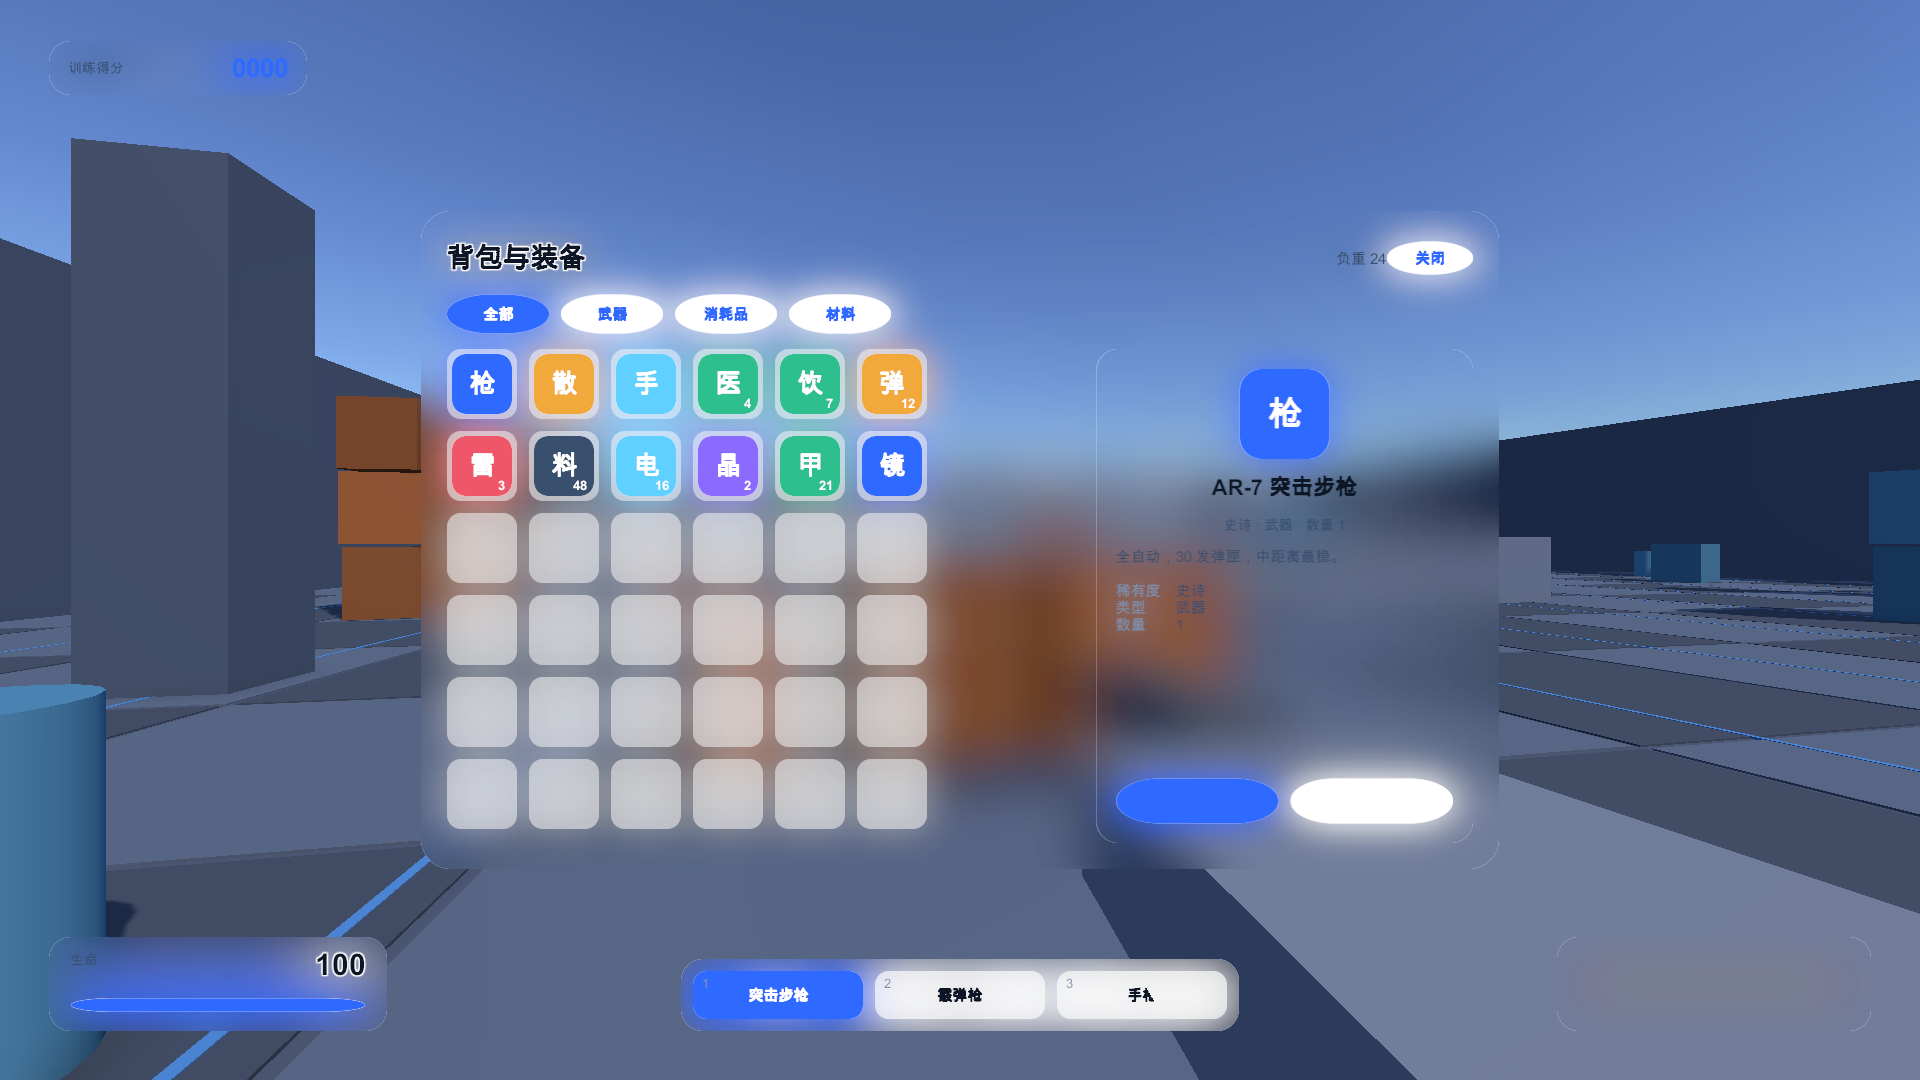
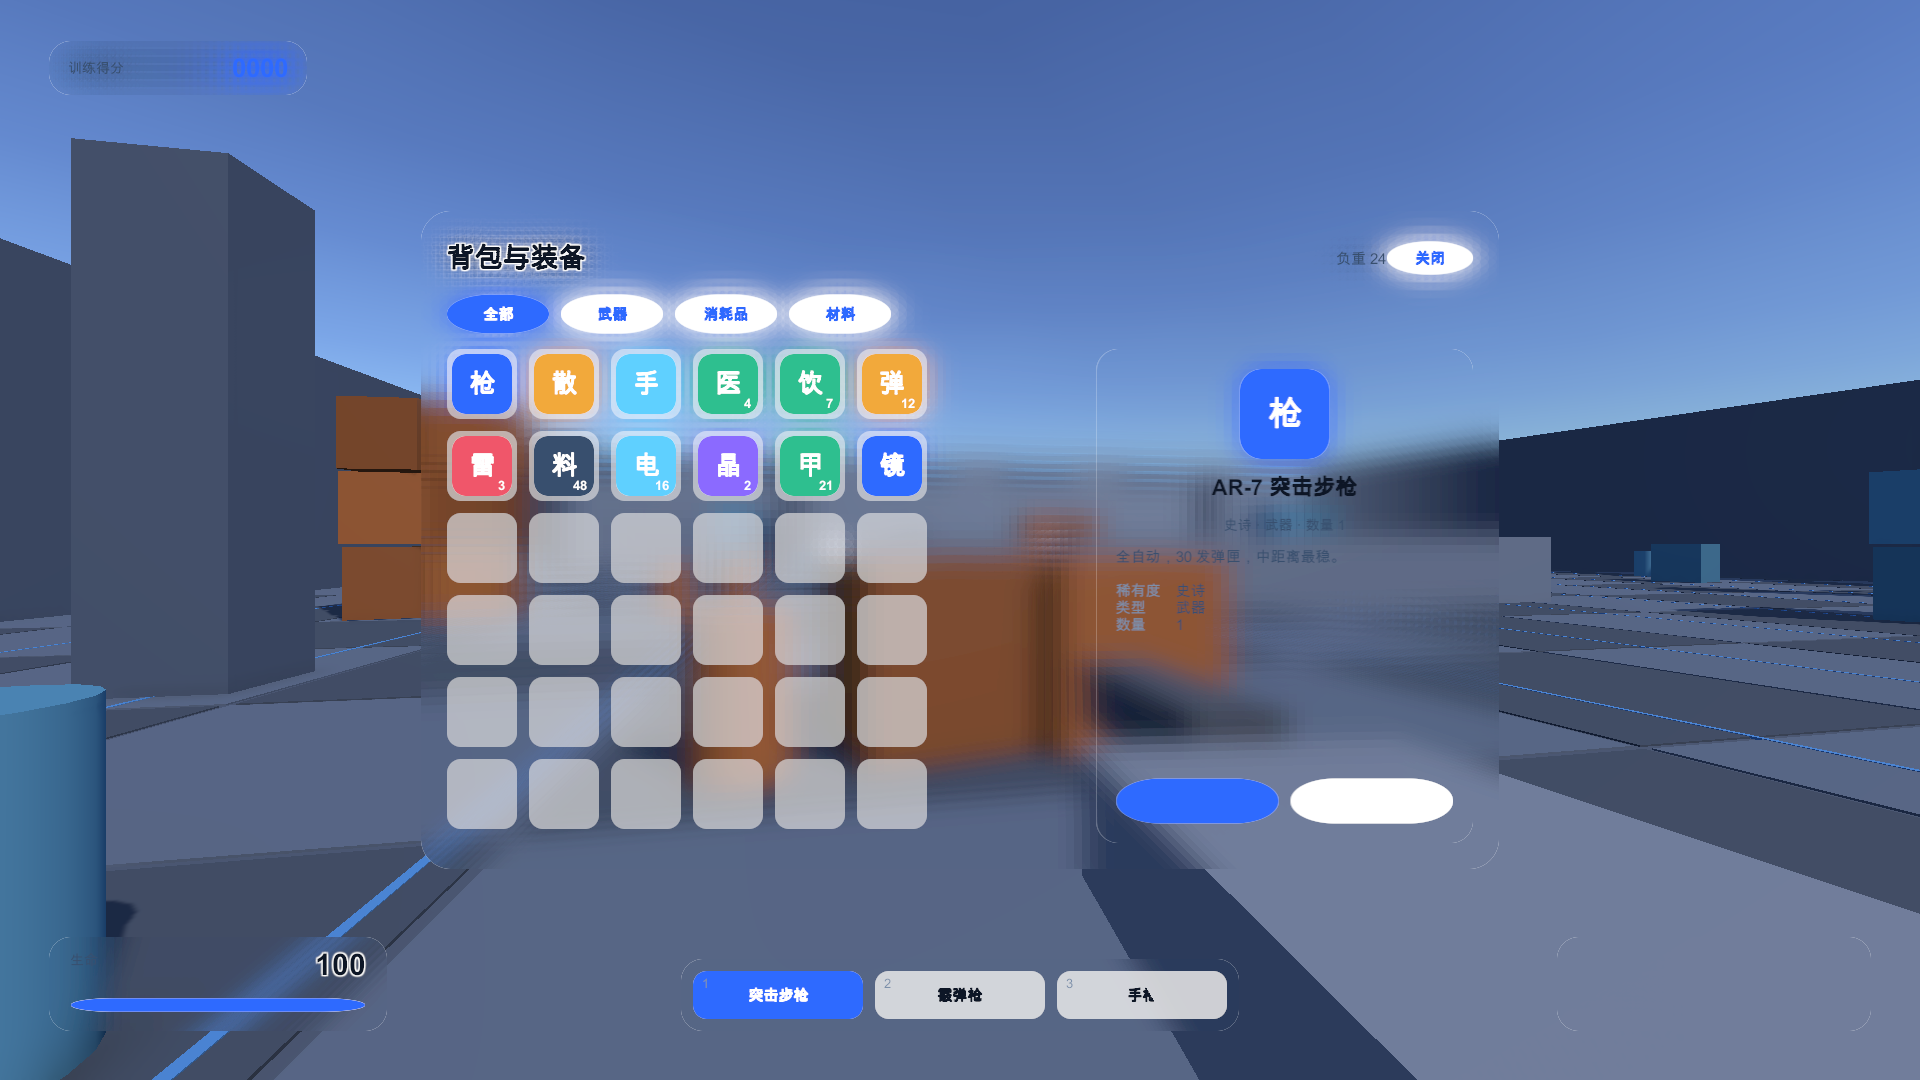
fix(毛玻璃): 改为与屏幕同分辨率的离屏纹理做高斯（downsample 默认 0）；截图时把 Pass 挪到不透明之后，保证糊的是没有 UI 的画面

diff --git a/Assets/Editor/ArenaSceneBuilder.cs b/Assets/Editor/ArenaSceneBuilder.cs
@@ -3,6 +3,7 @@ using UnityEditor;
 using UnityEditor.SceneManagement;
 using UnityEngine;
 using UnityEngine.Rendering;
+using UnityEngine.Rendering.Universal;
 using UnityEngine.UI;
 using GlassUI.Game;
 
@@ -191,6 +192,7 @@ namespace GlassUI.EditorTools
 
             ui.BuildUi();
             ui.PrepareForCapture();
+            SetBlurBeforeUi(true);      // 截图时保证糊的是「没有 UI 的画面」
             var weaponSys = FindPlayer() != null ? FindPlayer().GetComponent<WeaponSystem>() : null;
             if (weaponSys == null) Debug.LogError("[DIAG] Player 上没找到 WeaponSystem");
             weaponSys?.EnsureBuilt();
@@ -231,6 +233,7 @@ namespace GlassUI.EditorTools
             Render(cam, canvas, width, height, $"{dir}/03_settings.png");
             ui.ClosePanelsForCapture();
 
+            SetBlurBeforeUi(false);
             Debug.Log($"[GlassUI] Arena 截图完成，输出 {dir}");
         }
 
@@ -285,6 +288,36 @@ namespace GlassUI.EditorTools
 
             var cam = Object.FindFirstObjectByType<Camera>();
             if (cam != null) cam.transform.localRotation = Quaternion.identity;   // 平视
+        }
+
+        /// <summary>
+        /// 截图用的：把毛玻璃 Pass 挪到不透明物体之后。
+        /// 因为截图时画布被迫用 ScreenSpaceCamera（Overlay 进不了相机的 RT），
+        /// UI 会在半透明队列里先画 —— 此时 AfterRenderingTransparents 的模糊会把 UI 自己也糊进去。
+        /// 挪到 opaques 之后就等价于真实 Overlay 的表现（糊的是「没有 UI 的游戏画面」）。
+        /// </summary>
+        static void SetBlurBeforeUi(bool beforeUi)
+        {
+            foreach (var guid in AssetDatabase.FindAssets("t:UniversalRendererData"))
+            {
+                var path = AssetDatabase.GUIDToAssetPath(guid);
+                if (path.StartsWith("Packages/")) continue;
+                var data = AssetDatabase.LoadAssetAtPath<UniversalRendererData>(path);
+                if (data == null) continue;
+                foreach (var rf in data.rendererFeatures)
+                {
+                    if (rf is FrostedGlassFeature f)
+                    {
+                        f.settings.injectionPoint = beforeUi
+                            ? RenderPassEvent.AfterRenderingOpaques
+                            : RenderPassEvent.AfterRenderingTransparents;
+                        EditorUtility.SetDirty(f);
+                    }
+                }
+                data.SetDirty();
+                EditorUtility.SetDirty(data);
+            }
+            AssetDatabase.SaveAssets();
         }
 
         static void Render(Camera cam, Canvas canvas, int width, int height, string path)

diff --git a/Assets/Scripts/Rendering/FrostedGlassFeature.cs b/Assets/Scripts/Rendering/FrostedGlassFeature.cs
@@ -20,16 +20,16 @@ namespace GlassUI
         public class Settings
         {
             [Tooltip("插在管线的哪一步之后。Transparents 之后能连半透明物体一起糊（UI 通常更想要这个）")]
-            public RenderPassEvent injectionPoint = RenderPassEvent.AfterRenderingTransparents;
+            public RenderPassEvent injectionPoint = RenderPassEvent.AfterRenderingTransparents;   // 真实 Overlay 画布下 UI 在这之后才画，所以糊的是「没有 UI 的画面」
 
-            [Tooltip("降采样倍数（0 = 原分辨率，2 = 1/4）。越大越省、越糊，但也越看不出原来的形状")]
-            [Range(0, 4)] public int downsample = 2;
+            [Tooltip("降采样倍数。0 = 与屏幕同分辨率（默认，质量最高）。只在性能吃紧时才升它，升了就不是全分辨率纹理了")]
+            [Range(0, 4)] public int downsample = 0;
 
-            [Tooltip("高斯迭代次数：每次都是横向+纵向一遍，等效核按 √n 变宽")]
-            [Range(1, 6)] public int iterations = 3;
+            [Tooltip("高斯迭代次数：每次都是横向+纵向一遍，等效 σ 按 √n 变宽")]
+            [Range(1, 6)] public int iterations = 2;
 
             [Tooltip("高斯 σ（以目标像素为单位），就是「核有多宽」")]
-            [Range(0.2f, 12f)] public float sigma = 2.4f;
+            [Range(0.2f, 24f)] public float sigma = 8f;
         }
 
         public Settings settings = new Settings();

diff --git a/README.md b/README.md
@@ -19,8 +19,9 @@
 
 不是贴图，是每帧真实计算：
 
-1. URP 里挂了一个 `FrostedGlassFeature`（ScriptableRendererFeature），在 `AfterRenderingTransparents` 插入一个 Pass：
-   **把相机颜色拷出来 → 降采样到 1/4 → 先横后竖做分离式高斯（两次迭代）→ 作为全局纹理 `_FrostedGlassTex` 公布出去。**
+1. URP 里挂了一个 `FrostedGlassFeature`（ScriptableRendererFeature），在 UI 之前插入一个 Pass：
+   **把「没有 UI 的游戏画面」拷到一张与屏幕同分辨率的离屏纹理 → 在上面做高卷积核高斯 → 作为全局纹理 `_FrostedGlassTex` 公布出去。**
+   （默认 `downsample = 0` 即全分辨率；它是质量旋钮，不是必须的优化）
 2. UI 那边用 `UI/FrostedGlass` 着色器按**屏幕 UV** 采这张图 —— 所以每块面板显示的正好是它身后那块被糊掉的画面，
    1:1 精确裁切，不平铺、不拉伸（这就是"按 uv 精确裁切"的落点）。
 3. 模糊是**高卷积核真高斯**：分离式 17 抽，权重用 `exp(-x²/2σ²)` 现算（不是盒状近似），
